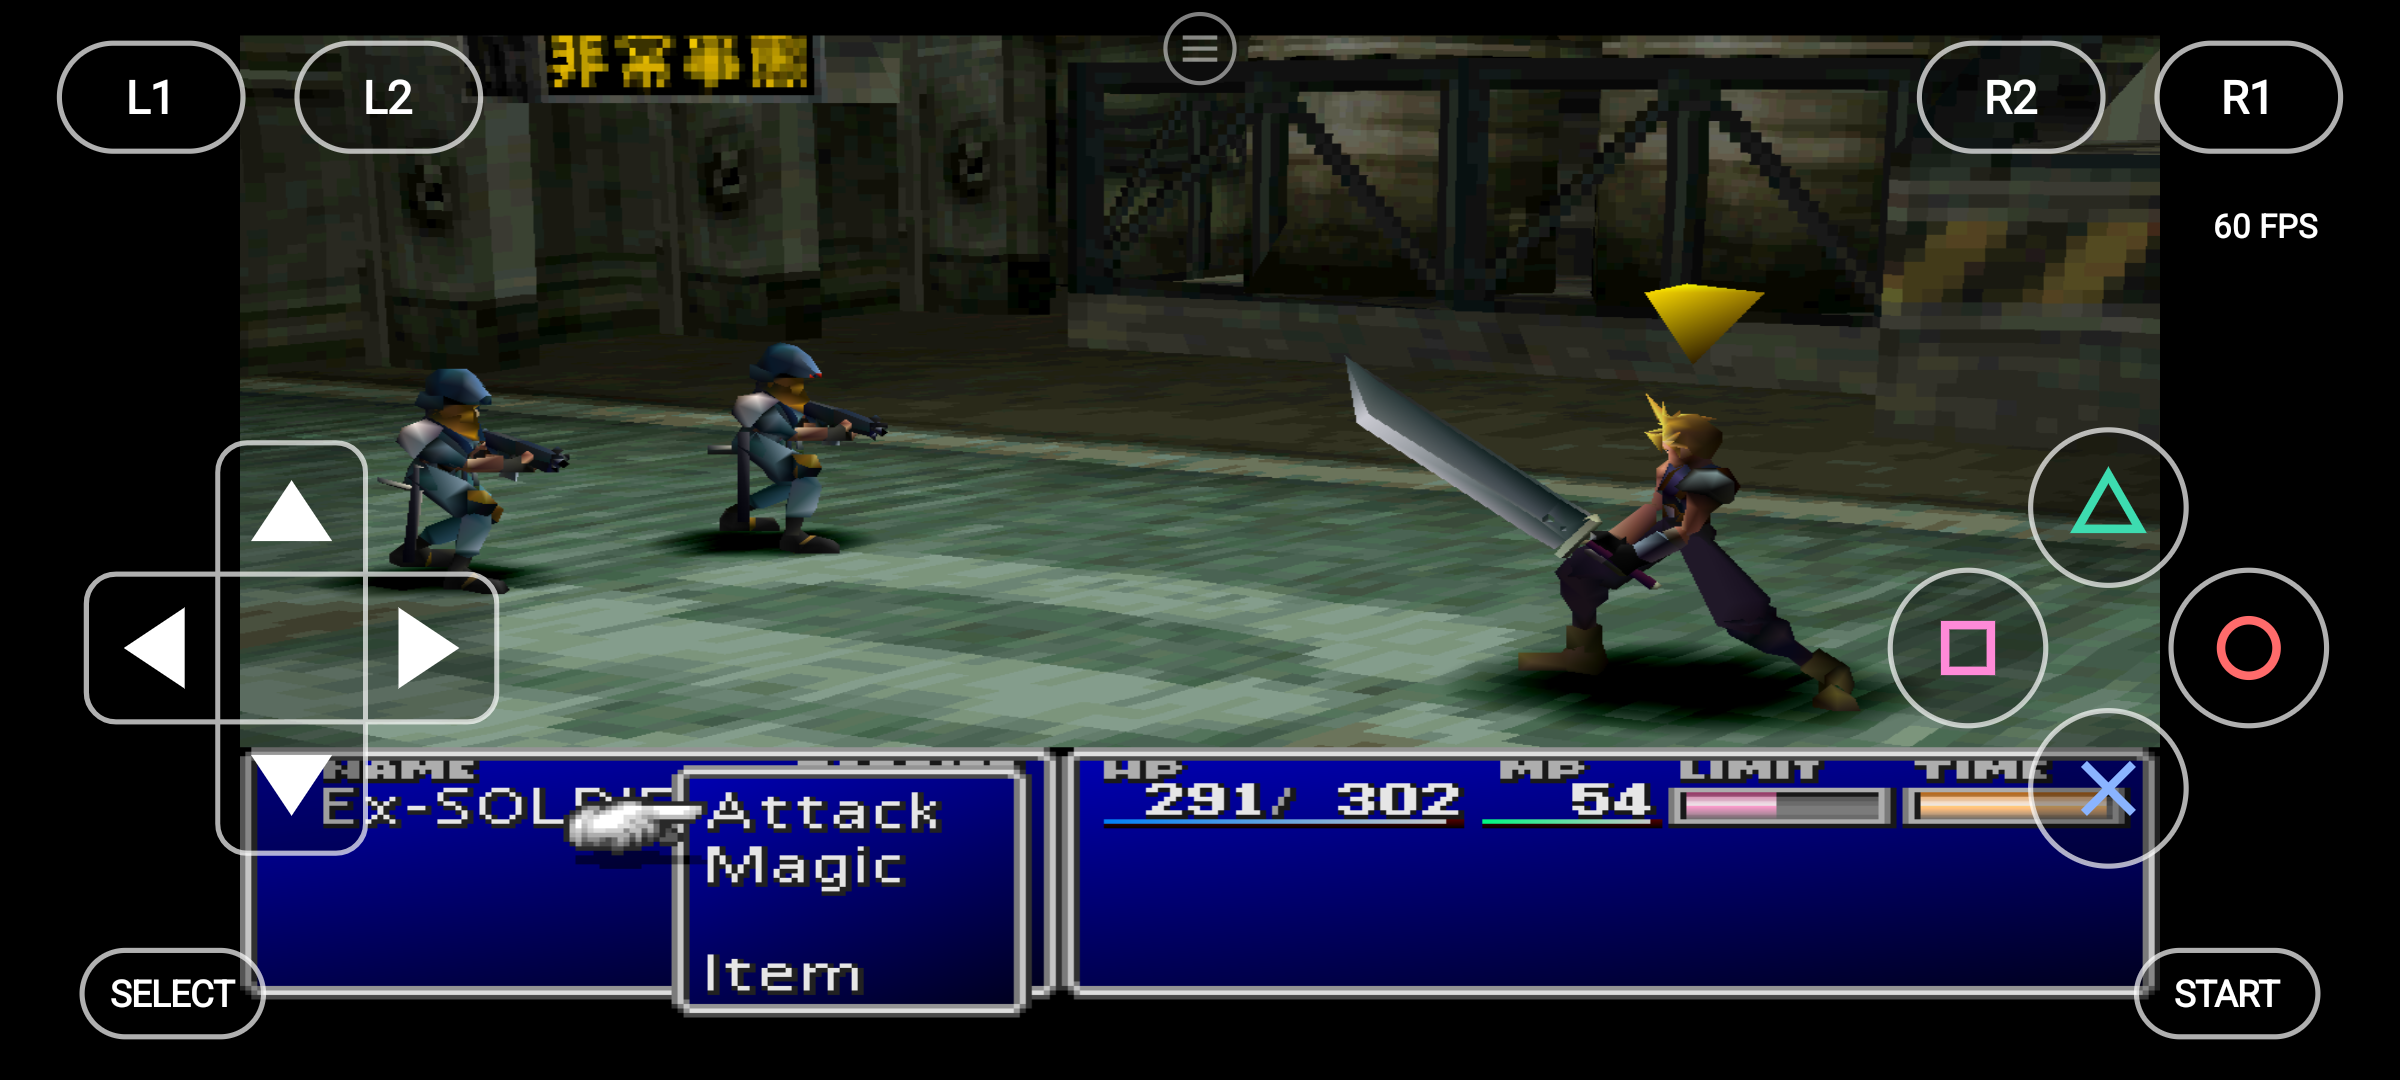
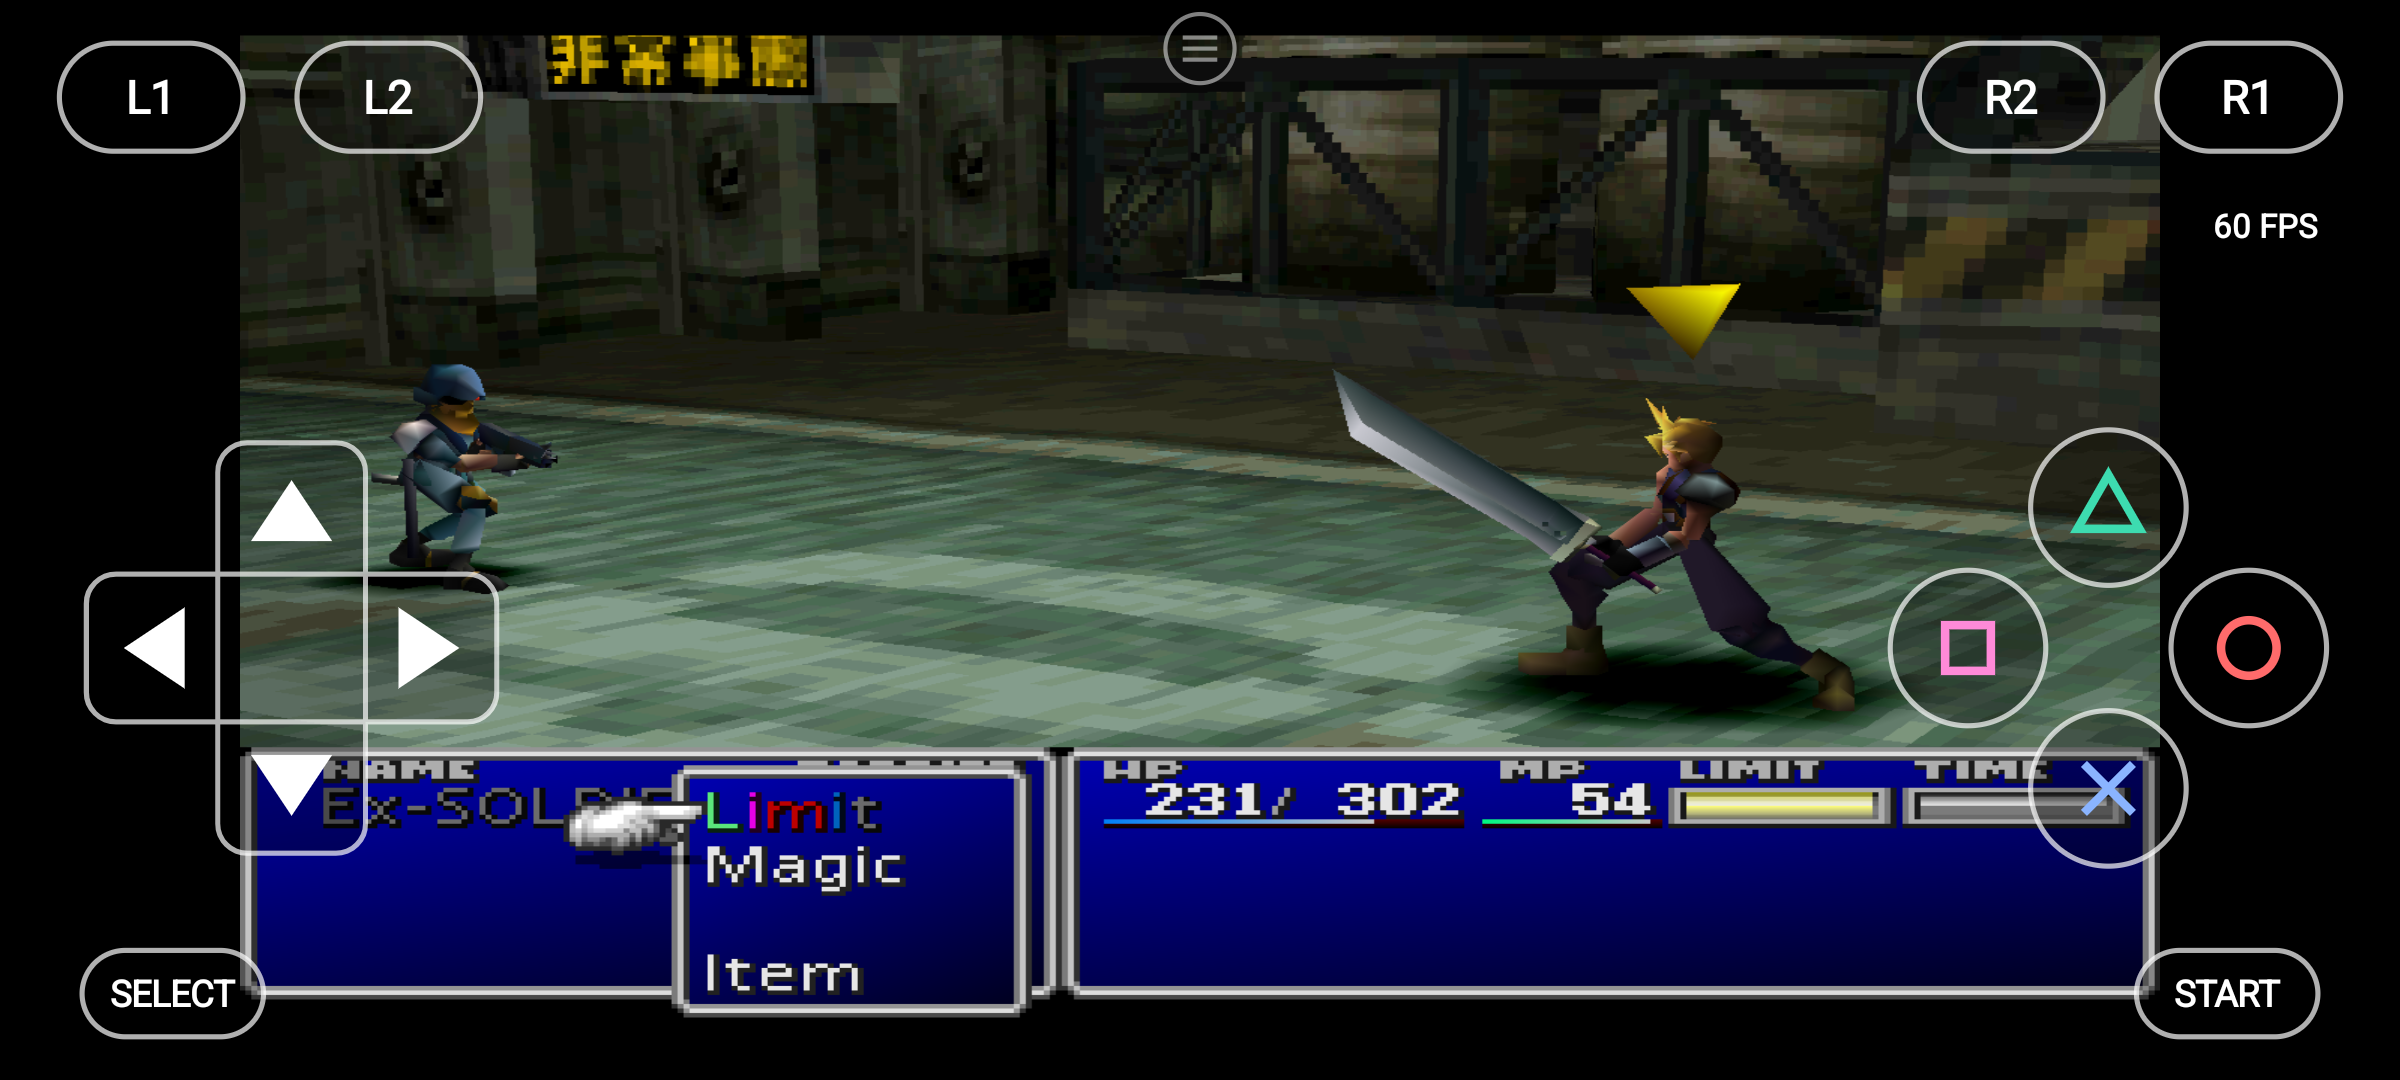
README: the battle pair (Limit Break ready, a hit mid-fight) from the Pixel 8 session

diff --git a/README.md b/README.md
@@ -22,21 +22,23 @@ speed: the FPS figure at the right is the game's own counter.
 <p><em>The first field scene, right off the opening train, with the on-screen pad.</em></p>
 
 <p>
-  <img src="docs/images/pixel8-battle.png" width="49%" alt="Pixel 8: the first battle against two MPs, battle menu open, 60 FPS">
+  <img src="docs/images/pixel8-battle.png" width="49%" alt="Pixel 8: the first battle, Cloud's Limit Break ready in the battle menu, 60 FPS">
+  <img src="docs/images/pixel8-battle-hit.png" width="49%" alt="Pixel 8: the first battle, an MP hits Cloud for 118, 60 FPS">
+</p>
+<p><em>The first battle: the Limit Break ready (left) and a hit in the middle of the fight (right).</em></p>
+
+<p>
   <img src="docs/images/pixel8-movie.png" width="49%" alt="Pixel 8: the opening movie, 60 FPS">
-</p>
-<p><em>The first battle (left) and the opening movie (right).</em></p>
-
-<p>
   <img src="docs/images/pixel8-title.png" width="49%" alt="Pixel 8: the title screen with New Game and Continue">
-  <img src="docs/images/pixel8-menu.png" width="49%" alt="Pixel 8: the field menu on the Cargo Ship, 60 FPS">
 </p>
-<p><em>The title screen (left) and the field menu, later on the Cargo Ship (right).</em></p>
+<p><em>The opening movie (left) and the title screen (right).</em></p>
 
 <p>
-  <img src="docs/images/pixel8-launcher.png" width="60%" alt="The start screen: Continue, Play, Select game file, Import memory card">
+  <img src="docs/images/pixel8-menu.png" width="49%" alt="Pixel 8: the field menu on the Cargo Ship, 60 FPS">
+  <img src="docs/images/pixel8-launcher.png" width="49%" alt="The start screen: Continue, Play, Select game file, Import memory card">
 </p>
-<p><em>The app's start screen: Continue from a save slot, Play, pick your discs, or import a memory card of your own.</em></p>
+<p><em>The field menu, later on the Cargo Ship (left), and the app's start screen: Continue from a save slot, Play,
+pick your discs, or import a memory card of your own (right).</em></p>
 
 ## Contents
 
